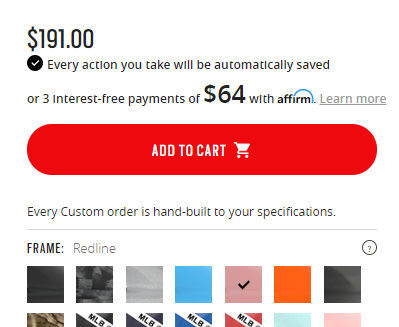
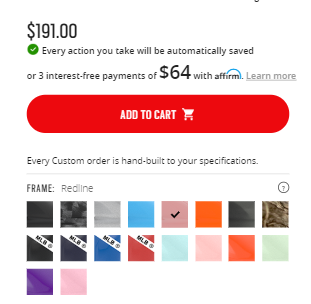
Color variation complete

diff --git a/index.html b/index.html
@@ -30,7 +30,7 @@
   </style>
 
   <section>
-    <h3>Paypal button</h3>
+    <h3>1. Paypal button</h3>
     <h4>Before</h4>
     <img src="images/existed-btn.png" alt="website-existed-img" width="200px">
     <h4>after</h4>
@@ -57,7 +57,7 @@
   <hr>
 
   <section>
-    <h3>Shipping method</h3>
+    <h3>2. Shipping method</h3>
     <h4>Before</h4>
     <img src="images/BeforeShipping.PNG" alt="Beforechange">
     <h4>After</h4>
@@ -79,7 +79,7 @@
  
   <hr>
   <section>
-    <h3>Call to action button</h3>
+    <h3>3. Call to action button</h3>
     <h4>Before</h4>
     <img src="images/fixed_cta_before.PNG" alt="Beforechange">
     <h4>After</h4>
@@ -96,7 +96,7 @@
   
   <hr>
   <section>
-    <h3>Search option</h3>
+    <h3>4. Search option</h3>
     <h4>Before</h4>
     <img src="images/search-before.png" alt="Beforechange-overlay" width="800px">
     <img src="images/search-2-before.png" alt="Beforechange-home-screen-bar" width="800px">
@@ -132,7 +132,7 @@
   <hr>
 
   <section>
-    <h3>Different Engraving hover invitation</h3>
+    <h3>5. Different Engraving hover invitation</h3>
     <h4>Before</h4>
     <img src="images/search-before.png" alt="Beforechange-overlay" width="800px">
     
@@ -149,7 +149,7 @@
   <hr>
 
   <section>
-    <h3>Change cursor hover state in PDP from zoom icon to expand</h3>
+    <h3>6. Change cursor hover state in PDP from zoom icon to expand</h3>
     <h4>Before</h4>
     <img src="images/zoom-mouse-hover-b4.png" alt="Beforechange-overlay" width="800px">
     
@@ -165,8 +165,9 @@
     </article>
   </section>
   <hr>
+
   <section>
-    <h3>Call to action button</h3>
+    <h3>7. Call to action button</h3>
     <h4>Before</h4>
     <img src="images/fixed_cta_before.PNG" alt="Beforechange">
     <h4>After</h4>
@@ -183,7 +184,7 @@
   
   <hr>
   <section>
-    <h3>change model icon</h3>
+    <h3>8. change model icon</h3>
     <h4>Before</h4>
     <img src="images/change model-before.png" alt="Beforechange-overlay" width="200">
   
@@ -223,7 +224,7 @@
   <hr>
 
   <section>
-    <h3>Customization auto save message</h3>
+    <h3>9. Customization auto save message</h3>
     <h4>Before</h4>
     <img src="images/BeforeAutoSave.PNG" alt="Beforechange-oautosave" width="800px">
 
@@ -233,7 +234,7 @@
       <pre> 
         $(".fc-price-container div:nth-child(2)").prepend("<div class = 'fc-autosave'><div class = 'fc-autosave-icon'></div><p>Every action you take will be automatically saved</p></div>");
         $(".fc-autosave").css("position" , "relative");
[2 lines of base64/hex data omitted]
         $(".fc-autosave-icon").css("background-repeat" , "no-repeat");
         $(".fc-autosave-icon").css("width", "20px");
         $(".fc-autosave-icon").css("height", "20px");
@@ -247,7 +248,7 @@
   </section>
 
   <section>
-    <h3>Color Variation in pdp</h3>
+    <h3>10. Color Variation in pdp</h3>
   <h4>Before</h4>
   <img src="images/BeforeAutoSave.PNG" alt="Beforechange-oautosave" width="800px">
 
@@ -255,22 +256,23 @@
   <article>
     <h5>Add color variation in Product display page</h5>
     <pre> 
-      $("#pdp").find(".sgh-pdp-brand-logo-box ").html($(".pdp-slide-menu-filter-list__link"));
-      $("#pdp").find(".sgh-pdp-brand-logo-box ").find(".pdp-slide-menu-filter-list-info").remove();
+      $(".sgh-pdp__left-side").find(".sgh-pdp-brand-logo-box ").html($(".pdp-slide-menu-filter-list--colors .pdp-slide-menu-filter-list__link"));
+      $(".sgh-pdp__left-side").find(".sgh-pdp-brand-logo-box ").find(".pdp-slide-menu-filter-list-info").remove();
       $(".product-feed__title div").removeClass( "sgh-pdp-brand-logo-box").addClass( "sgh-pdp-brand-logo-container" );
       $(".sgh-pdp-brand-logo-container img").css("max-width" , "180px");
       $(".sgh-pdp-brand-logo-container img").css("height" , "auto");
       $(".sgh-pdp-brand-logo-box ").css("width" , "600px");
       $(".sgh-pdp-brand-logo-box ").css("position" , "relative");
-      $(".sgh-pdp-brand-logo-box ").css("left" , "150px");
-      $(".sgh-pdp-brand-logo-box img").css("width" , "140px");
+      $(".sgh-pdp-brand-logo-box ").css("left" , "100px");
+      $(".sgh-pdp-brand-logo-box img").css("width" , "135px");
       $(".sgh-pdp-brand-logo-box").slick({infinite: false, slidesToShow: 4 , slidesToScroll: 3});
-      $(".pdp-overlay-popup--open").css("visibility" , "hidden");
-      $(".sgh-pdp__filter-button").css("display" , "none");
+      $(".pdp-overlay-popup--open , .pdp-overlay-popup--colors").css("visibility" , "hidden");
+      $("#openColorsPopupBtn").css("display" , "none");
       $(".sgh-pdp-brand-logo-box").addClass("perfect-pair-promise");
+      $(".sgh-pdp-brand-logo-box ").css("padding" , "0 20px");
 
     </pre>
-    <img src="images/afterautosave.PNG" alt="after-autosave-message" width="1000">
+    <img src="images/aftercolorvariation.PNG" alt="after-autosave-message" width="1000">
   </article>
 </section>
 
